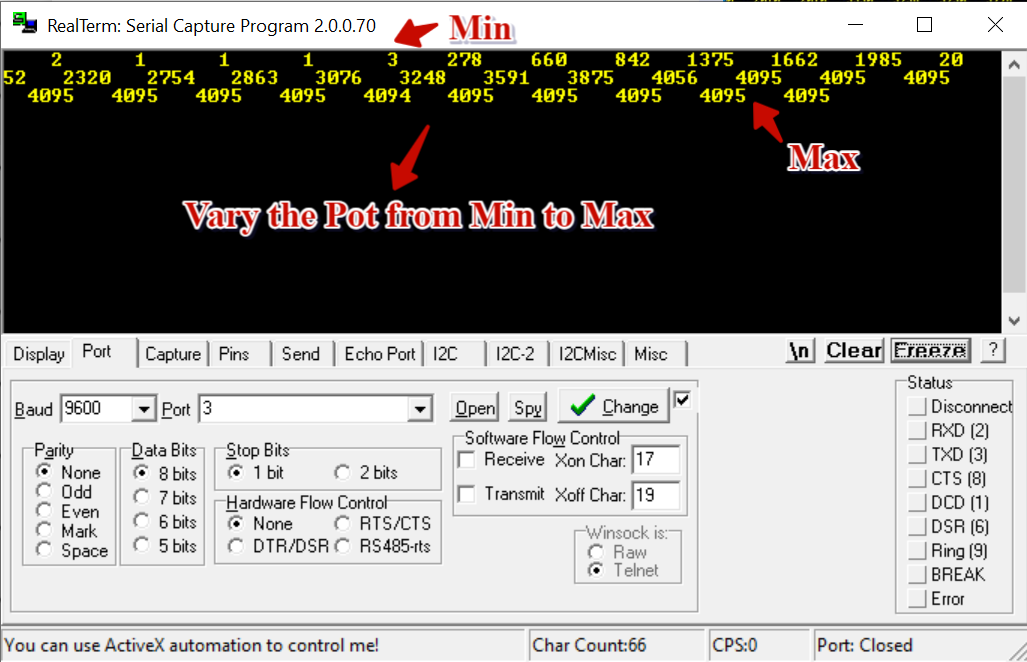
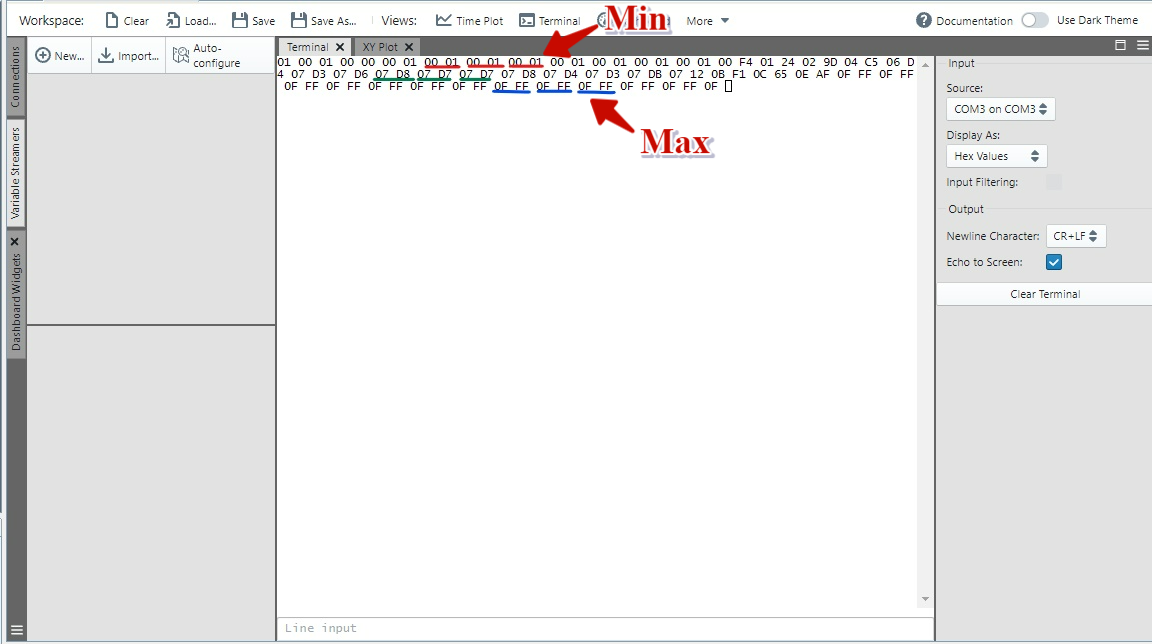
Reverted back Data Visualizer approach for serial terminal
Removed Realterm from the project

diff --git a/dspic33c-dma-adc-to-uart.X/mcc_generated_files/adc/adc1.h b/dspic33c-dma-adc-to-uart.X/mcc_generated_files/adc/adc1.h
@@ -69,112 +69,6 @@
 */
 extern const struct ADC_INTERFACE ADC_Driver;
 
-/**
- * @ingroup  adcdriver
- * @brief    This macro defines the Custom Name for \ref ADC1_Initialize API
- */
-#define ADC_Driver_Initialize ADC1_Initialize
-/**
- * @ingroup  adcdriver
- * @brief    This macro defines the Custom Name for \ref ADC1_Deinitialize API
- */
-#define ADC_Driver_Deinitialize ADC1_Deinitialize
-/**
- * @ingroup  adcdriver
- * @brief    This macro defines the Custom Name for \ref ADC1_Enable API
- */
-#define ADC_Driver_Enable ADC1_Enable
-/**
- * @ingroup  adcdriver
- * @brief    This macro defines the Custom Name for \ref ADC1_Disable API
- */
-#define ADC_Driver_Disable ADC1_Disable
-/**
- * @ingroup  adcdriver
- * @brief    This macro defines the Custom Name for \ref ADC1_SoftwareTriggerEnable API
- */
-#define ADC_Driver_SoftwareTriggerEnable ADC1_SoftwareTriggerEnable
-/**
- * @ingroup  adcdriver
- * @brief    This macro defines the Custom Name for \ref ADC1_SoftwareTriggerDisable API
- */
-#define ADC_Driver_SoftwareTriggerDisable ADC1_SoftwareTriggerDisable
-/**
- * @ingroup  adcdriver
- * @brief    This macro defines the Custom Name for \ref ADC1_ChannelSelect API
- */
-#define ADC_Driver_ChannelSelect ADC1_ChannelSelect
-/**
- * @ingroup  adcdriver
- * @brief    This macro defines the Custom Name for \ref ADC1_ConversionResultGet API
- */
-#define ADC_Driver_ConversionResultGet ADC1_ConversionResultGet
-/**
- * @ingroup  adcdriver
- * @brief    This macro defines the Custom Name for \ref ADC1_IsConversionComplete API
- */
-#define ADC_Driver_IsConversionComplete ADC1_IsConversionComplete
-/**
- * @ingroup  adcdriver
- * @brief    This macro defines the Custom Name for \ref ADC1_InterruptEnable API
- */
-#define ADC_Driver_InterruptEnable ADC1_InterruptEnable
-/**
- * @ingroup  adcdriver
- * @brief    This macro defines the Custom Name for \ref ADC1_InterruptDisable API
- */
-#define ADC_Driver_InterruptDisable ADC1_InterruptDisable
-/**
- * @ingroup  adcdriver
- * @brief    This macro defines the Custom Name for \ref ADC1_InterruptFlagClear API
- */
-#define ADC_Driver_InterruptFlagClear ADC1_InterruptFlagClear
-/**
- * @ingroup  adcdriver
- * @brief    This macro defines the Custom Name for \ref ADC1_InterruptPrioritySet API
- */
-#define ADC_Driver_InterruptPrioritySet ADC1_InterruptPrioritySet
-/**
- * @ingroup  adcdriver
- * @brief    This macro defines the Custom Name for \ref ADC1_CommonCallbackRegister API
- */
-#define ADC_Driver_CommonCallbackRegister ADC1_CommonCallbackRegister
-/**
- * @ingroup  adcdriver
- * @brief    This macro defines the Custom Name for \ref ADC1_Tasks API
- */
-#define ADC_Driver_Tasks ADC1_Tasks
-/**
- * @ingroup  adcdriver
- * @brief    This macro defines the Custom Name for \ref ADC1_IndividualChannelInterruptEnable API
- */
-#define ADC_Driver_IndividualChannelInterruptEnable ADC1_IndividualChannelInterruptEnable
-/**
- * @ingroup  adcdriver
- * @brief    This macro defines the Custom Name for \ref ADC1_IndividualChannelInterruptDisable API
- */
-#define ADC_Driver_IndividualChannelInterruptDisable ADC1_IndividualChannelInterruptDisable
-/**
- * @ingroup  adcdriver
- * @brief    This macro defines the Custom Name for \ref ADC1_IndividualChannelInterruptFlagClear API
- */
-#define ADC_Driver_IndividualChannelInterruptFlagClear ADC1_IndividualChannelInterruptFlagClear
-/**
- * @ingroup  adcdriver
- * @brief    This macro defines the Custom Name for \ref ADC1_ChannelCallbackRegister API
- */
-#define ADC_Driver_ChannelCallbackRegister ADC1_ChannelCallbackRegister
-/**
- * @ingroup  adcdriver
- * @brief    This macro defines the Custom Name for \ref ADC1_ComparatorCallbackRegister API
- */
-#define ADC_Driver_ComparatorCallbackRegister ADC1_ComparatorCallbackRegister
-/**
- * @ingroup  adcdriver
- * @brief    This macro defines the Custom Name for \ref ADC1_SharedCorePowerEnable API
- */
-#define ADC_Driver_SharedCorePowerEnable ADC1_SharedCorePowerEnable
-
 // Section: Driver Interface Functions
 
 /**

diff --git a/README.md b/README.md
@@ -8,23 +8,23 @@
 
 This project describes the usage of DMA for data transfer from ADC to UART on dsPIC33CK Curiosity board using MPLAB® Code Configurator. 
 The ADC is triggered to start conversion every 500 ms using common software trigger in timer callback routine. Potentiometer input is given to ADC Channel, Once the ADC conversion is complete, DMA is triggered by ADC to transfer conversion count result 
-from ADC buffer to UART transmit buffer. The result can be verified in Realterm(serial terminal software)
+from ADC buffer to UART transmit buffer. The result can be verified in MPLAB® Data Visualizer 
 
 ## Related Documentation
 
-[dsPIC33CK256MP508 datasheet](https://www.microchip.com/dsPIC33CK256MP508) for more information or specifications
+[dsPIC33CK256MP508 datasheet] (https://www.microchip.com/dsPIC33CK256MP508) for more information or specifications
 
 ## Software Used 
 
-- [MPLAB® X IDE v6.00](https://www.microchip.com/mplabx) or newer
-- [MPLAB® XC16 v2.00](https://www.microchip.com/xc16) or newer
-- Device Family Pack : dsPIC33CK-MP_DFP v1.7.208
-- [MPLAB® Code Configurator (MCC) 5.1.2](https://www.microchip.com/mcc) or newer
-- [Realterm: Serial/TCP Terminal](https://sourceforge.net/projects/realterm/)
+- [MPLAB® X IDE v6.00] (https://www.microchip.com/mplabx) or newer
+- [MPLAB® XC16 v2.00] (https://www.microchip.com/xc16) or newer
+- Device Family Pack: dsPIC33CK-MP_DFP v1.7.208
+- [MPLAB® Code Configurator (MCC) 5.1.2] (https://www.microchip.com/mcc) or newer
+- [MPLAB® Data Visualizer v1.3.1160] (https://www.microchip.com/mplabdatavisualizer) or newer
 
 ## Hardware Used
 
-- [dsPIC33CK Curiosity Board](https://www.microchip.com/dm330030)
+- [dsPIC33CK Curiosity Board] (https://www.microchip.com/dm330030)
 
 ## Setup
 
@@ -37,22 +37,20 @@ from ADC buffer to UART transmit buffer. The result can be verified in Realterm(
 - Open the `dspic33c-dma-adc-to-uart.X` project in MPLAB® X IDE
 - Build and program the device
 
-**Realterm Setup**
+**Data Visualizer (DV) Setup**
 
-1. Open Realterm Software, Select the Communication port settings as shown in the below image.
-![](images/Realterm_settings.jpeg)
+1. In DV Plugin select the Communication Port for Curiosity board, Click on Terminal View and select display values in hex format (As 12-bit ADC is being configured, the conversion output will be in the range 0 to 4095). Refer the below image for DV Setup
 
-2. For displaying incoming ADC Data on terminal, Select uint16 in the display view(As 12 bit ADC is being configured, The conversion output will be in the range 0 to 4095)
-![](images/Realterm_displayview.jpeg)
+![](images/DV-setup.png)
 
 ## Operation
 
-- Once Timer is initialized with periodic timeout event, For every Timeout event callback routine, Common Software trigger will trigger ADC Conversion and DMA will transfer data from ADC buffer to UART
-- The conversion result is verified in Realterm serial Terminal by varying the Potentiometer. For 12 bit ADC, the Converted ADC output counts will be in the range of 0 to 4095 in decimal
-- Program the device and Open Realterm Software, 
-   1. Set the Potentiometer to Min, Check the ADC Converted Output data in the terminal. The expected output will be 00 01 for 12 bit ADC
+- Once Timer is initialized with periodic timeout event, for every Timeout event callback routine, Common Software trigger will trigger ADC Conversion and DMA will transfer data from ADC buffer to UART
+- The conversion result is verified in Data visualizer terminal by varying the Potentiometer. For 12-bit ADC, the Converted ADC output counts will be in the range of 0 to 4095 in decimal
+- Program the device and Open Data visualizer terminal, 
+   1. Set the Potentiometer to Min, Check the ADC Converted Output data in the terminal. The expected output will be 00 01 for 12-bit ADC
    2. Set the Potentiometer to Max, Check the ADC Converted output data in the terminal. The expected output will be nearer to 0F FF (close to 4095 in decimal)
-   3. Varying the Potentiometer from Minimum to Maximum, Observe the ADC Converted Result in Realterm terminal
+   3. Varying the Potentiometer from Minimum to Maximum, Observe the ADC Converted Result in DV terminal
 ![](images/ADC_Output.JPG)
 
 ## MCC settings for reference
@@ -68,7 +66,7 @@ This Project uses the driver code generated by **MCC-Melody**
 	  5. Set **Source Address Mode** as **Incremented**
 	  6. Set **Destination Address Mode** as **Unchanged**
 	  7. Select **Data Size** as **8 bit**
-	  8. Set **Transfer Count** as **0x2** as ADC Buffer has 16 bit data and U1TXREG can read one byte at a time
+	  8. Set **Transfer Count** as **0x2** as ADC Buffer has 16-bit data and U1TXREG can read one byte at a time
 
 ![](images/Configure_DMA.JPG)
 
@@ -94,11 +92,3 @@ This Project uses the driver code generated by **MCC-Melody**
    2. For UART1 U1RX - Configure the pin RD3 (Optional since we are just transmitting)
 
 ![](images/pin-manager-gridview-configure.png)
-
-
-
-
-
-
-
-   

diff --git a/changelog.md b/changelog.md
@@ -8,5 +8,5 @@
 
 - DMA Communication from ADC to UART in dsPIC33CK256MP508
 - Timer timout callback routine triggers ADC Conversion, ADC Conversion complete event triggers DMA to transfer data from ADC buffer to UART Transmit buffer
-- Varying the Potentiometer ADC Conversion output is observed in Realterm serial terminal software
+- Varying the Potentiometer ADC Conversion output is observed in MPLAB Data Visualizer
 
